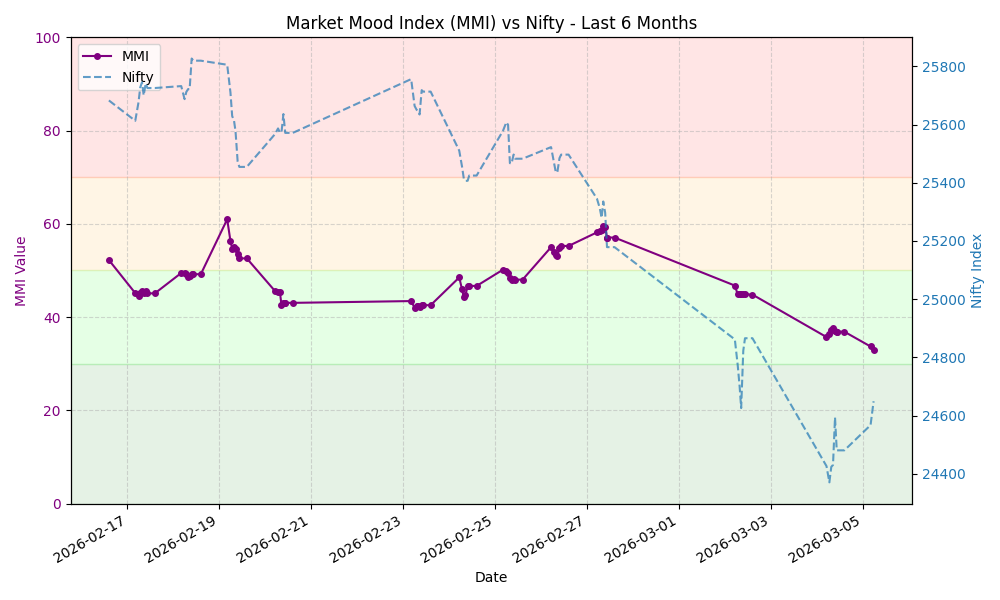
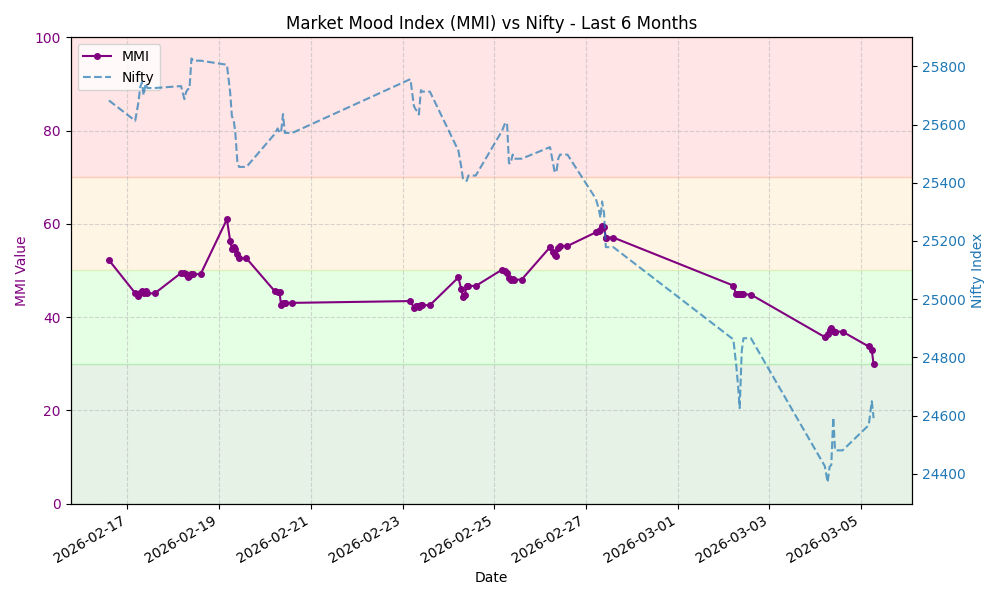
Update MMI data and chart

diff --git a/README.md b/README.md
@@ -7,8 +7,8 @@ This repository automatically fetches the MMI value, stores the history, and gen
 
 ## Latest MMI Value
 
-**32.89** - **Fear**
-<small>Last Updated: 2026-03-05 05:36 UTC</small>
+**29.83** - **Extreme Fear**
+<small>Last Updated: 2026-03-05 06:33 UTC</small>
 
 ## MMI Trend (Last 30 Days)
 
